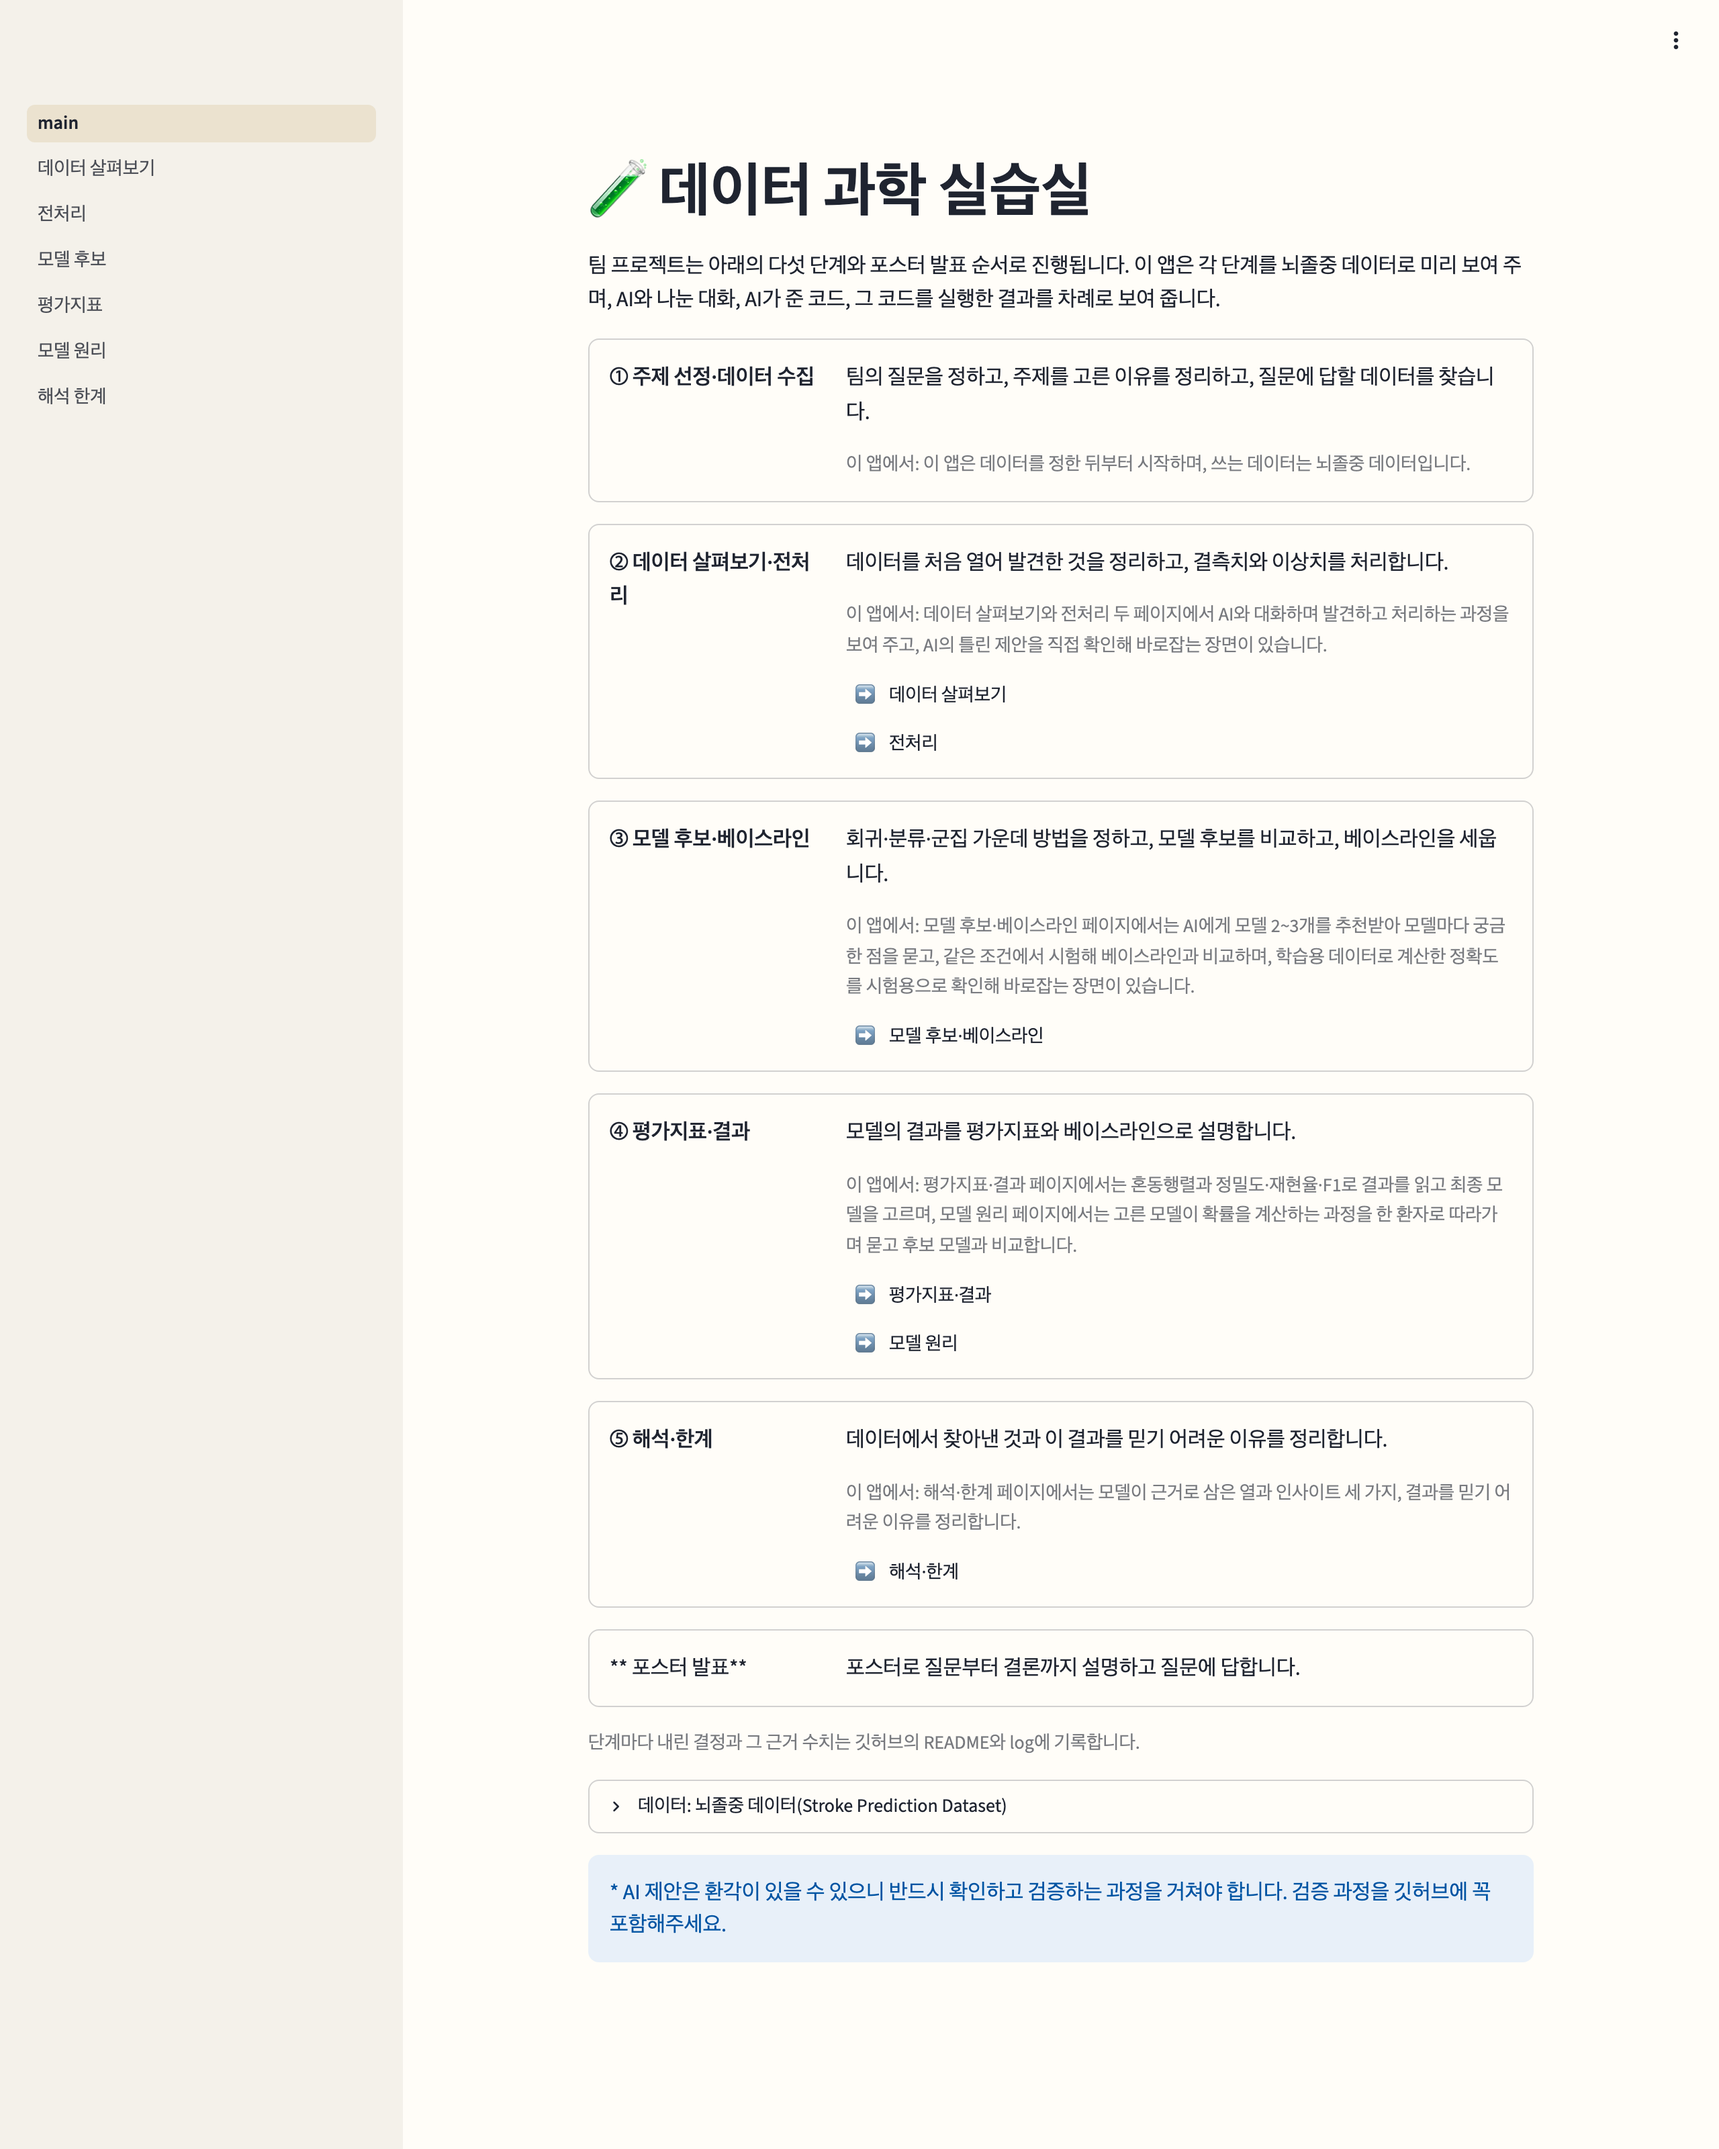
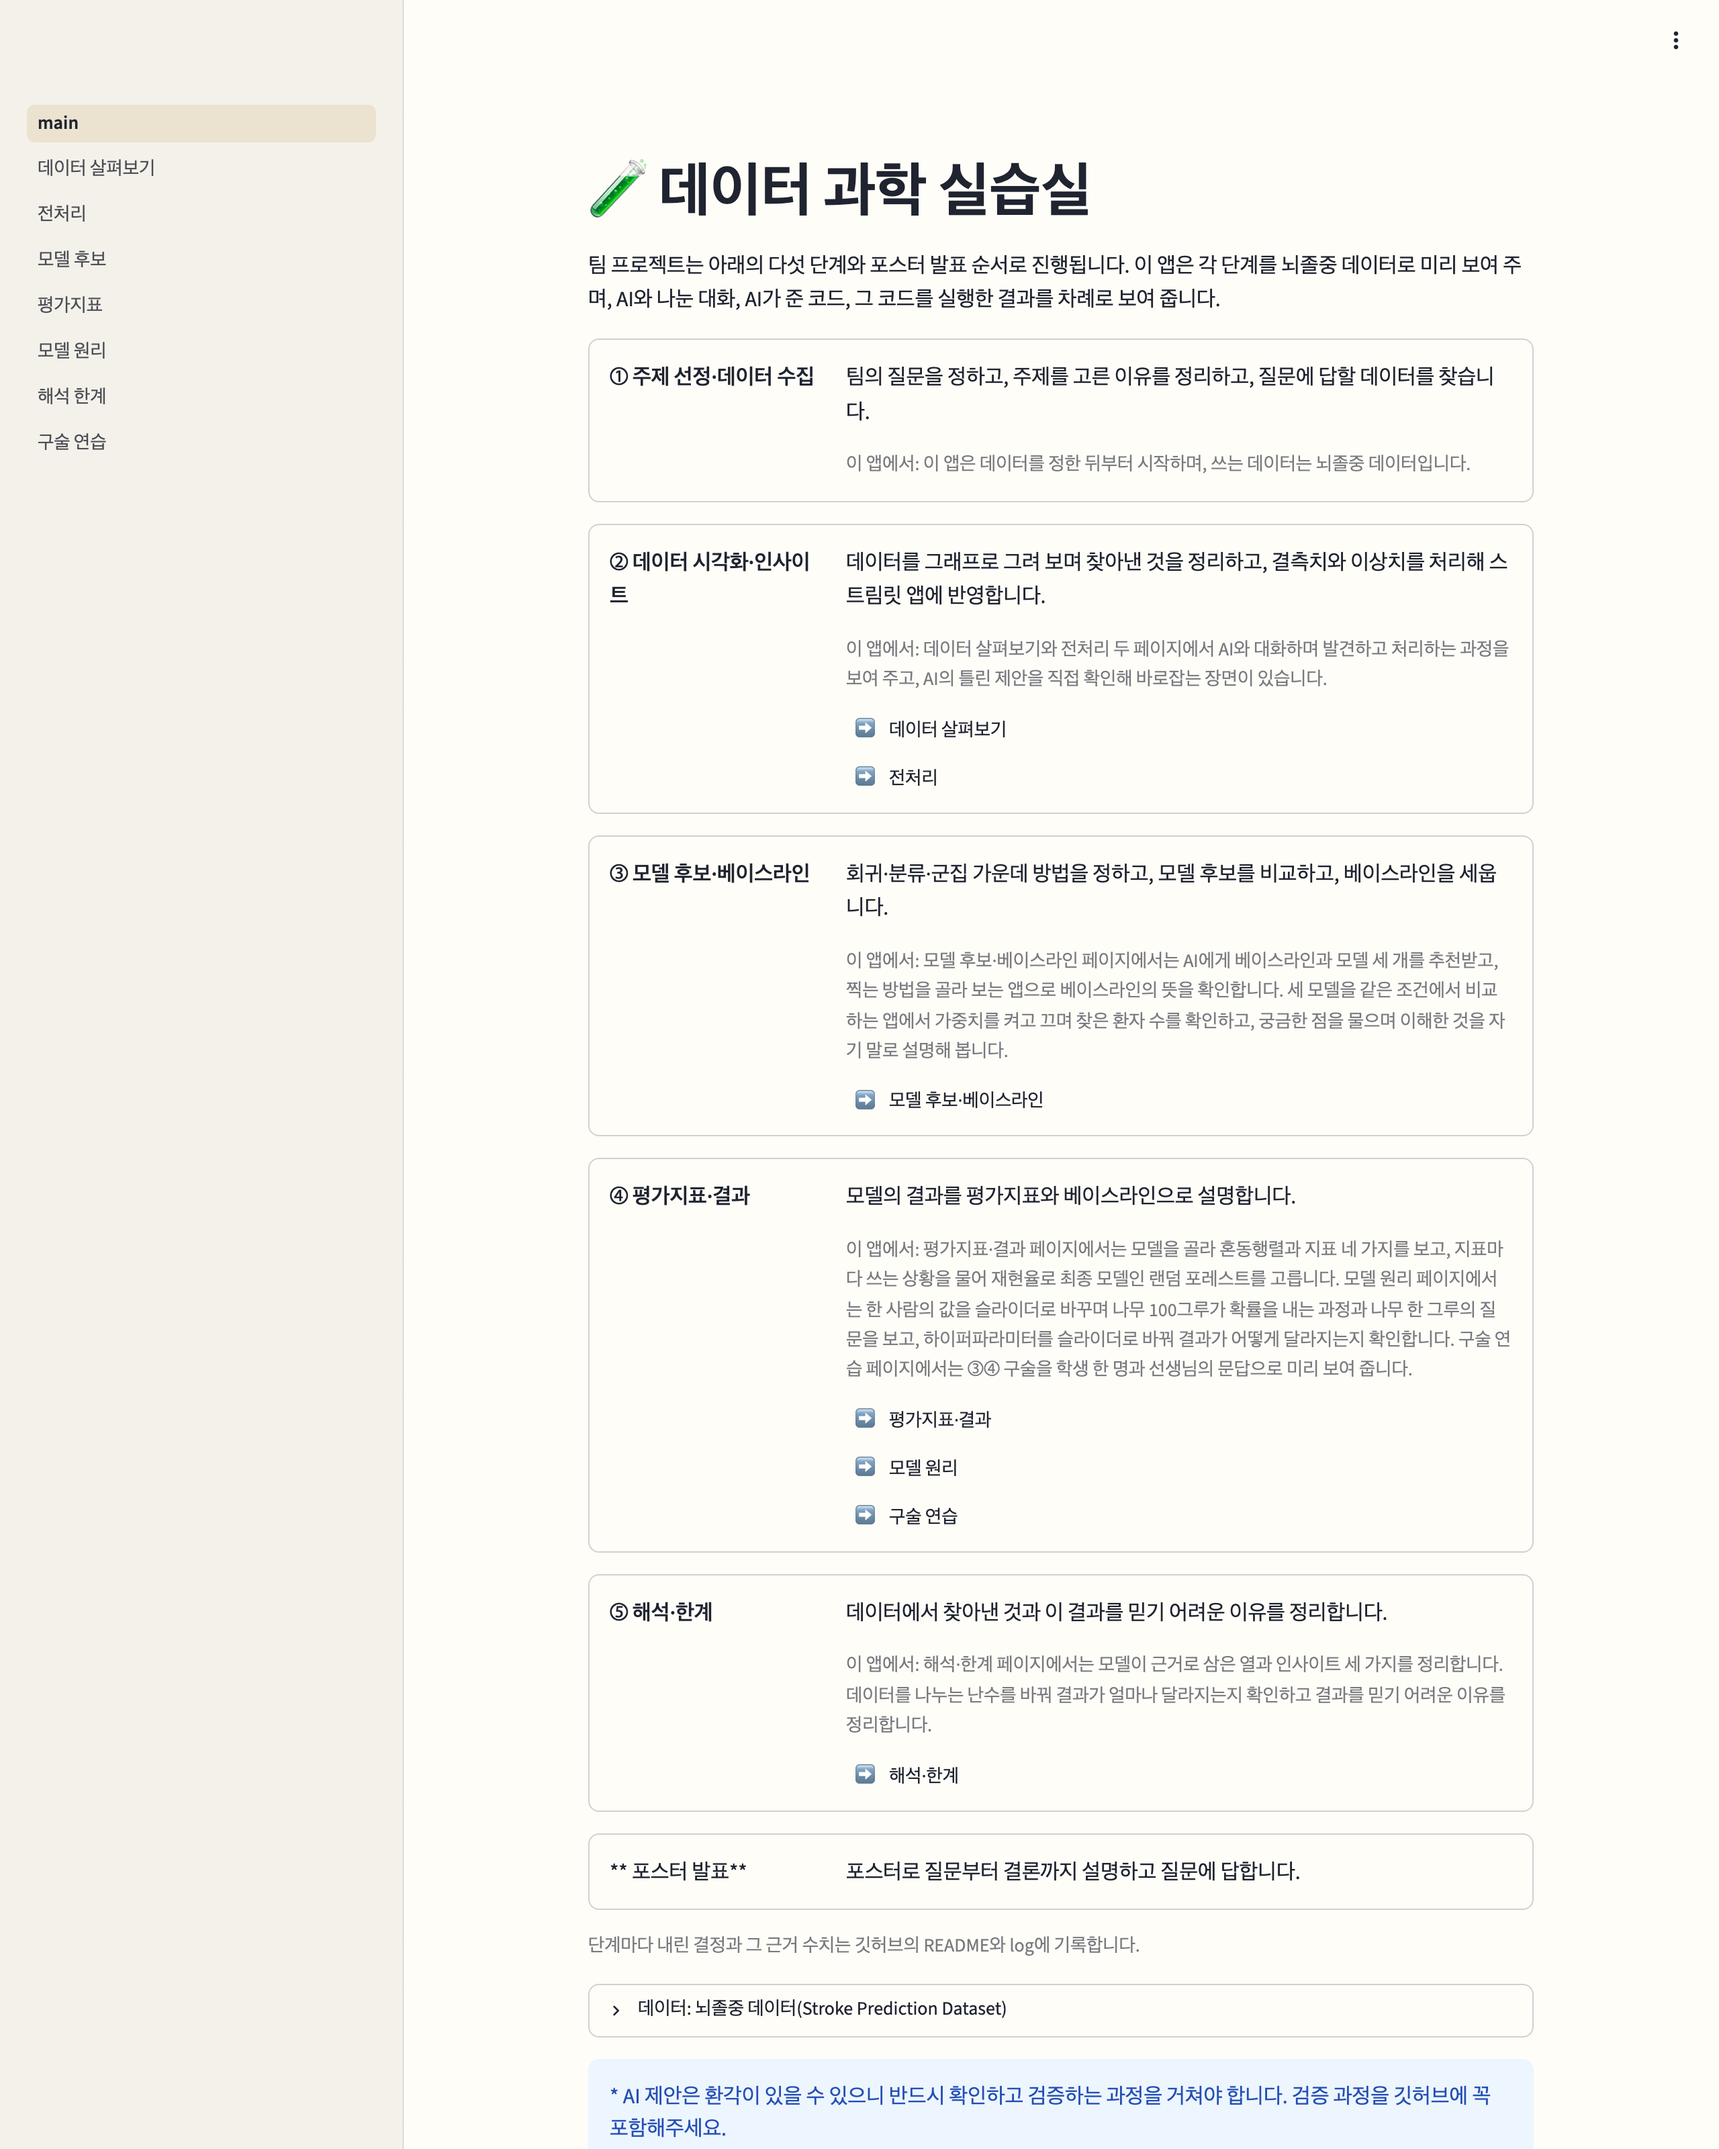
실습실 캡처를 새 대사에 맞춰 다시 찍음: 모델 후보(추천 표·랜덤 포레스트 궁금증·베이스라인 찍기 앱·가중치 토글 앱), 평가지표(탭 앱·정밀도·재현율 자기 말 확인·재현율로 선택), 모델 원리(나무 100그루 앱·나이 구간 궁금증·하이퍼파라미터 슬라이더·과대적합 그래프·자기 설명), 예전 오류 장면 캡처 다섯 장 삭제, C5 학생 안내 절 id를 c34로 고치고 못 찾으면 경고, 흐름 위젯 실습실 설명 한 줄

diff --git a/content/widgets.js b/content/widgets.js
@@ -18,7 +18,7 @@
 
   // 한 회차의 흐름: 단계를 누르면 장면과 역할
   var FLOW = [
-    { t: '실습실 예시 대화', who: '학생', ai: 'Claude 설계 · Solar 대사', img: 'C2b_모델마다_묻기.png', d: 'AI와 대화하며 모델을 고르고 검증하는 예시를 먼저 본다. 코드는 그 자리에서 실행된다.' },
+    { t: '실습실 예시 대화', who: '학생', ai: 'Claude 설계 · Solar 대사', img: 'C2b_모델마다_묻기.png', d: 'AI에게 궁금한 것을 계속 묻고 자기 말로 설명해 보는 예시를 먼저 본다. 대화 속 앱은 그 자리에서 실행된다.' },
     { t: '팀 저장소 작업 · log', who: '학생', ai: '학생이 쓰는 AI', img: 'G3_학생log.png', d: '팀원마다 네 줄 기록. AI 제안을 고치거나 버린 이유가 핵심이다.' },
     { t: '구술 인터뷰', who: '교사', ai: '', img: 'A3_인터뷰_질문.png', phone: true, d: '팀당 약 3분. 시작 질문, 꼬리질문, 지목, 루브릭.' },
     { t: '받아 적기 · 초안', who: 'AI 조교', ai: 'Gemini 전사 · Solar 문안', img: 'A5_기록상세_피드백.png', phone: true, d: '저장 약 20초 뒤 전사, 이어서 강점·다음 단계 가이드 초안.' },

diff --git a/scripts/capture_lab.py b/scripts/capture_lab.py
@@ -69,18 +69,25 @@ with sync_playwright() as p:
     page.wait_for_timeout(1500)
     page.screenshot(path=str(OUT / 'C1_실습실_첫화면.png')); done.append('C1')
     page.set_viewport_size({'width': 1280, 'height': 9000})
-    # C2 모델 후보: 추천 표, 모델마다 묻기
+    # C2 모델 후보: 추천 표, 궁금해서 이어 묻기(랜덤 포레스트는 왜 여러 그루), 대화 속 앱 둘, 구술 대비 카드
     lab_page(page, '모델_후보')
-    shot(page, 'C2a_모델추천표.png', [msg(page, '이런 문제에 어울리는 모델을 2~3개 추천해'), msg(page, '분류 문제에 많이 쓰는 모델 세 가지')])
-    shot(page, 'C2b_모델마다_묻기.png', [msg(page, '분류에 써도 돼?'), msg(page, '나무가 많으면 항상 더 좋은 거야?'), msg(page, '대신 나무가 많아 예측 이유를')])
-    shot(page, 'C3a_AI오류_학생검증.png', [msg(page, '정확도가 1.0이라는 게 이상해'), msg(page, '시험용 데이터로 다시 계산하는 코드')])
-    shot(page, 'C3b_검증기록_log.png', [Box(page, '검증 기록 남기기')])
+    shot(page, 'C2a_모델추천표.png', [msg(page, '이 문제에 적합한 모델 세 개를 추천해 줘'), msg(page, '추천 모델은 로지스틱 회귀, 결정 트리, 랜덤 포레스트이며')])
+    shot(page, 'C2b_모델마다_묻기.png', [msg(page, '왜 여러 그루를 만드는 거야'), msg(page, '나무마다 학습용 데이터에서 사람을 무작위로 다시 뽑으며')])
+    shot(page, 'C3a_베이스라인_찍기앱.png', [msg(page, '아무것도 배우지 않는 모델을 왜 굳이'), msg(page, '베이스라인은 아무 정보 없이 찍었을 때의 결과')])
+    shot(page, 'C3b_가중치_토글앱.png', [msg(page, '왜 환자를 거의 못 찾는 거야'), msg(page, '해결 방법은 가중치')])
     shot(page, 'C4a_구술대비_모델후보.png', [Box(page, '구술 인터뷰 대비')])
-    # 모델 원리: 손 계산, S자 곡선, 계수 오해 바로잡기, 자기 설명 확인받기, 대비 카드
+    # 평가지표: 탭 앱(혼동행렬·네 모델 비교), 자기 말로 확인(정밀도·재현율), 재현율로 최종 모델 고르기
+    lab_page(page, '평가지표')
+    shot(page, 'C3c_평가_탭앱.png', [msg(page, '모델을 골라 가며 평가 결과를'), msg(page, '분류 모델은 혼동행렬부터')])
+    shot(page, 'C3d_자기말_정밀도재현율.png', [msg(page, '정밀도와 재현율이 헷갈려서'), msg(page, '두 정의가 서로 바뀌었습니다')])
+    shot(page, 'C3e_재현율로_선택.png', [msg(page, '어떤 지표로 최종 모델을 골라야'), msg(page, '재현율이 높은 순서로 보여 줍니다')])
+    # 모델 원리(랜덤 포레스트): 나무 100그루 앱, 앱을 만져 보고 생긴 궁금증, 하이퍼파라미터 슬라이더, 과대적합 그래프, 자기 설명 확인받기, 대비 카드
     lab_page(page, '모델_원리')
-    shot(page, 'C3c_원리_손계산.png', [msg(page, '한 단계씩 직접 계산해 줘'), msg(page, '로지스틱 회귀가 시험용 데이터의 첫 번째 환자')])
-    shot(page, 'C3d_계수오해_바로잡기.png', [msg(page, 'age의 계수 1.855는 무슨 뜻이야'), msg(page, '1.855%p씩'), msg(page, '확률이 언제나 같은 만큼 오르지는 않을 것 같아'), msg(page, '앞의 설명이 틀렸습니다')])
-    shot(page, 'C3e_자기설명_확인받기.png', [msg(page, '내가 이해한 대로 말해 볼게'), msg(page, '원리는 대부분 맞지만')])
+    shot(page, 'C3f_원리_나무100그루앱.png', [msg(page, '나무 한 그루씩 골라서'), msg(page, '첫 번째 환자(실제 뇌졸중 환자)에서 시작합니다')])
+    shot(page, 'C3g_궁금증_나이구간.png', [msg(page, '왜 어떤 구간은 그대로이고'), msg(page, '482개 가운데 118개')])
+    shot(page, 'C3h_하이퍼파라미터_슬라이더.png', [msg(page, '랜덤 포레스트에는 어떤 하이퍼파라미터가'), msg(page, '바꿔 볼 것 네 가지는')])
+    shot(page, 'C3i_과대적합_그래프.png', [msg(page, '깊이를 15로 올려 봤어'), msg(page, '깊이 1부터 20까지 랜덤 포레스트를')])
+    shot(page, 'C3j_자기설명_확인받기.png', [msg(page, '구술 인터뷰에서 설명할 수 있게 내 말로'), msg(page, '원리와 학습이 정하는 것')])
     shot(page, 'C4b_구술대비_선정모델.png', [Box(page, '구술 인터뷰 대비')])
     ctx.close()
     # C5 학생 안내(③ 회차 절), C6 샘플 저장소 log
@@ -90,9 +97,12 @@ with sync_playwright() as p:
     page.wait_for_timeout(1500)
     # 차시 표기는 발표 자료에 남기지 않는다(교사 결정: 일정이 바뀔 수 있음)
     page.evaluate("""() => document.querySelectorAll('.when').forEach(e => e.remove())""")
-    sec = page.locator('section#c3')
+    # ③④를 한 회차로 합친 뒤(2026-11-05) 절 id가 c3에서 c34로 바뀌었다. 다시 찍으면 발표 자료의 이동량(frame의 '0:-39%')도 새 그림에 맞춘다
+    sec = page.locator('section#c34')
     if sec.count():
         sec.screenshot(path=str(OUT / 'C5_학생안내_체크리스트루브릭.png')); done.append('C5')
+    else:
+        print('경고: 학생 안내에서 ③④ 절(section#c34)을 찾지 못해 C5를 찍지 않았다')
     page.goto('https://github.com/greatsong/ds-sample-1-regression/blob/main/log/07.md', wait_until='networkidle')
     page.wait_for_timeout(2500)
     art = page.locator('article.markdown-body').first
